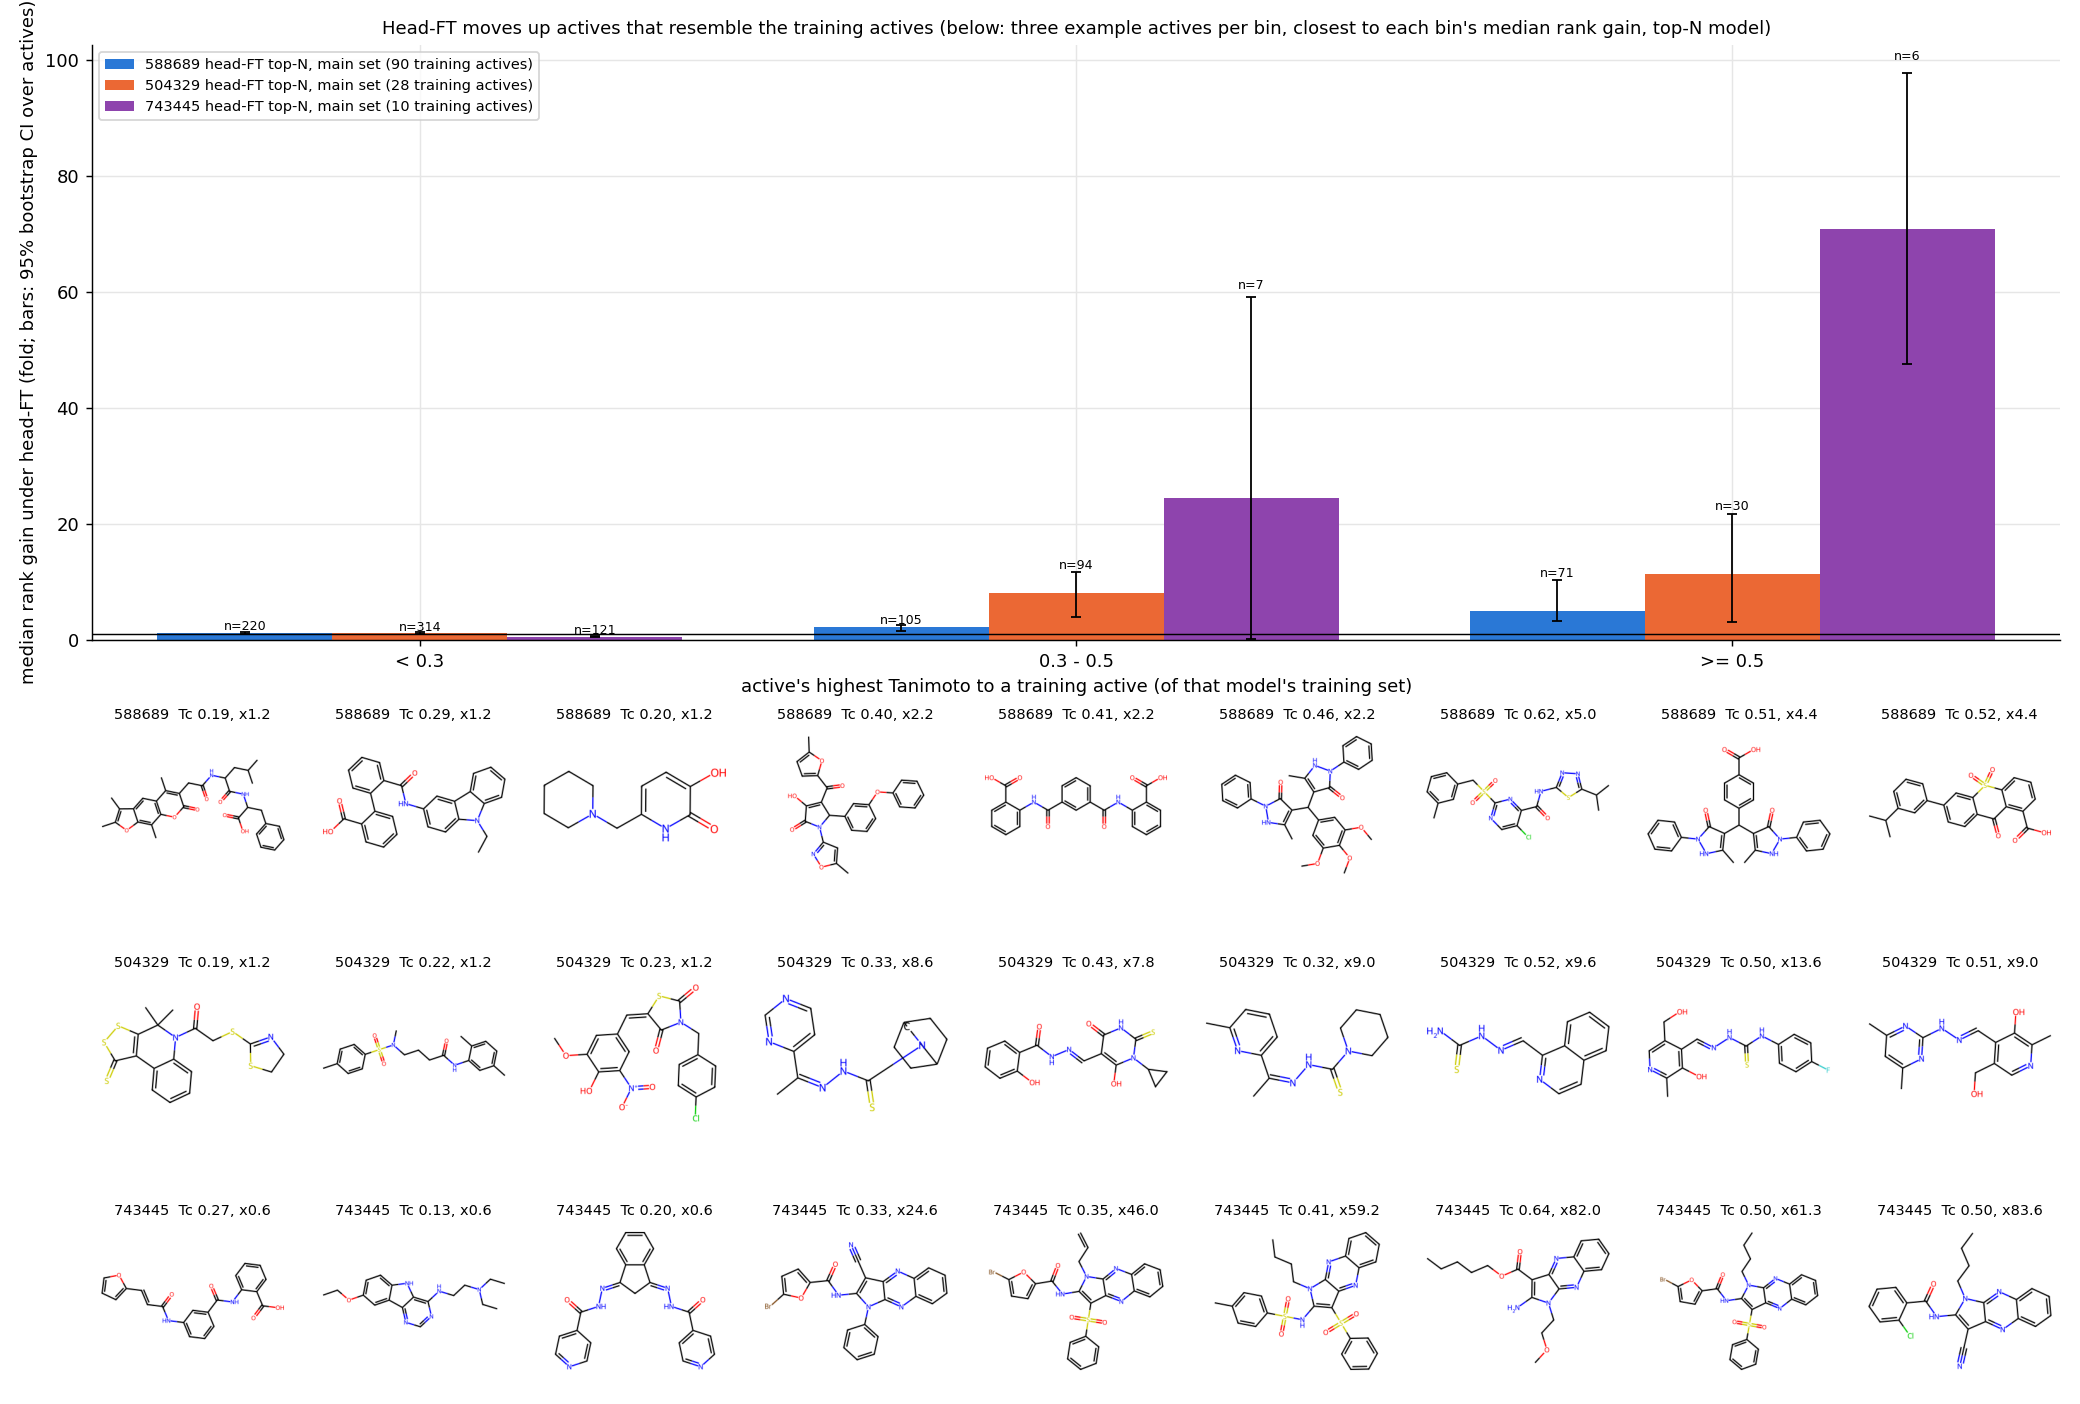
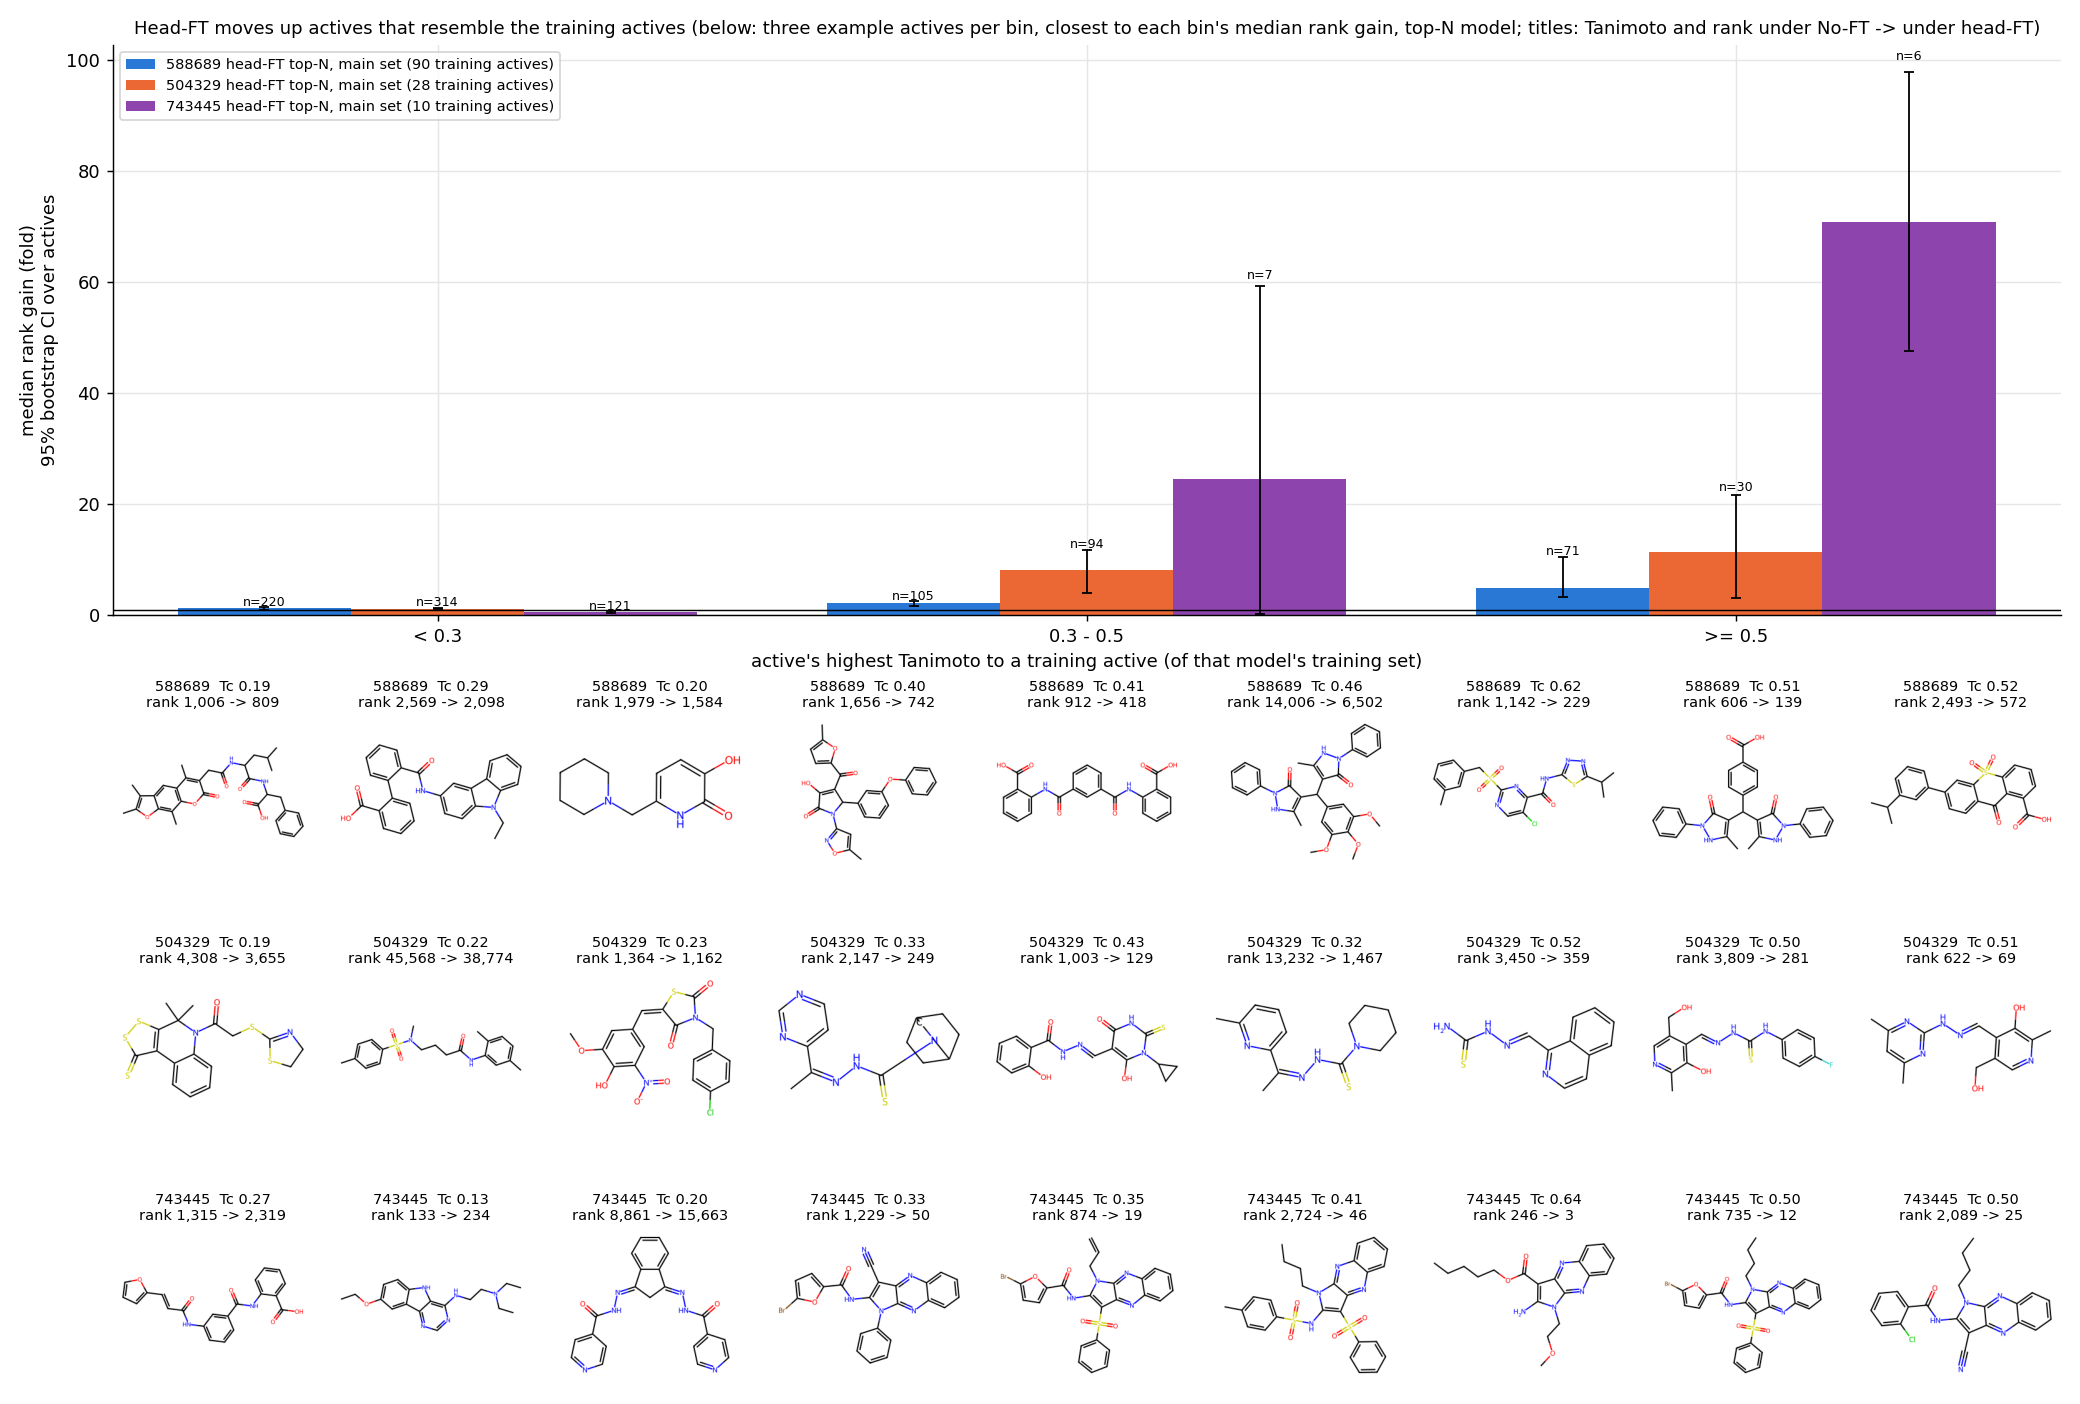
Similarity figure: show No-FT to head-FT rank in the example titles

diff --git a/pipeline_local/make_readme_figures.py b/pipeline_local/make_readme_figures.py
@@ -86,15 +86,15 @@ def train_fps(t, ids):
     tt = br.sim_table(t); tra = [i for i in ids if bool(tt.target_active_v2.get(i, False))]; return [f for f in br.fps(tt["neut-smiles"].reindex(tra).values) if f is not None]
 SER = []; BIN = {}
 for q, t in enumerate(DONE):
-    S = bc.scores(t); ref = train_fps(t, bc.train_ids(t, 300)); d, g = gain_bins(S.smiles.values, S.label.values.astype(int), S.noft_p.values, bc.ft_mean(S, 300).values, ref)
+    S = bc.scores(t); S['rn'] = S.noft_p.rank(ascending=False, method='first'); S['rf'] = bc.ft_mean(S, 300).rank(ascending=False, method='first'); ref = train_fps(t, bc.train_ids(t, 300)); d, g = gain_bins(S.smiles.values, S.label.values.astype(int), S.noft_p.values, bc.ft_mean(S, 300).values, ref)
     SER.append((f"{SH[t]} head-FT top-N, main set ({len(ref)} training actives)", g, [OUR, THEIR, "#8e44ad"][q % 3])); BIN[t] = (S, d, g)
 fig = plt.figure(figsize=(16, 4.8 + 2.0 * len(DONE))); gs = fig.add_gridspec(1 + len(DONE), 9, height_ratios=[3.6] + [1.0] * len(DONE)); ax = fig.add_subplot(gs[0, :]); w = 0.8 / len(SER)
 for q, (lab, g, col) in enumerate(SER):
     xs = np.arange(len(g)) + (q - (len(SER) - 1) / 2) * w; m = 2 ** g["median"].values; lo = 2 ** g["lo"].values; hi = 2 ** g["hi"].values
     ax.bar(xs, m, w, color=col, label=lab); ax.errorbar(xs, m, yerr=[m - lo, hi - m], fmt="none", color=BLK, capsize=3, lw=1)
     for xx, mm, h, n in zip(xs, m, hi, g["size"].values): ax.text(xx, h * 1.02 + 0.2, f"n={n}", ha="center", fontsize=7)
-ax.axhline(1, color=BLK, lw=0.8); ax.set_xlim(-0.5, 2.5); ax.set_ylim(0, None); ax.set_xticks(range(3)); ax.set_xticklabels(labs); ax.set_xlabel("active's highest Tanimoto to a training active (of that model's training set)"); ax.set_ylabel("median rank gain under head-FT (fold; bars: 95% bootstrap CI over actives)"); ax.legend(fontsize=8, loc="upper left")
-ax.set_title("Head-FT moves up actives that resemble the training actives (below: three example actives per bin, closest to each bin's median rank gain, top-N model)", fontsize=10)
+ax.axhline(1, color=BLK, lw=0.8); ax.set_xlim(-0.5, 2.5); ax.set_ylim(0, None); ax.set_xticks(range(3)); ax.set_xticklabels(labs); ax.set_xlabel("active's highest Tanimoto to a training active (of that model's training set)"); ax.set_ylabel("median rank gain (fold)\n95% bootstrap CI over actives"); ax.legend(fontsize=8, loc="upper left")
+ax.set_title("Head-FT moves up actives that resemble the training actives (below: three example actives per bin, closest to each bin's median rank gain, top-N model; titles: Tanimoto and rank under No-FT -> under head-FT)", fontsize=10)
 for r, t in enumerate(DONE):
     S, d, g = BIN[t]; g = g.assign(median=g['median']); A = S[S.label == 1].copy(); A["tc"] = d.tc.values; A["bin"] = d.bin.values; A["rshift"] = d.sh.values
     for b, lab in enumerate(labs):
@@ -104,7 +104,7 @@ for r, t in enumerate(DONE):
         for c, (_, row) in enumerate(pick.iterrows()):
             axm = fig.add_subplot(gs[1 + r, b * 3 + c]); m = Chem.MolFromSmiles(row.smiles)
             if m is not None: axm.imshow(Draw.MolToImage(m, size=(320, 240)))
-            axm.axis("off"); axm.set_title(f"{SH[t]}  Tc {row.tc:.2f}, x{2 ** row.rshift:.1f}", fontsize=8)
+            axm.axis("off"); axm.set_title(f"{SH[t]}  Tc {row.tc:.2f}\nrank {int(row.rn):,} -> {int(row.rf):,}", fontsize=8)
 save(fig, "finding_3_similarity.png")
 
 # 4. near-identical pairs: accuracy by size difference (notebook 04, section 3b) and, on 588689's held-out set, No-FT vs top-N vs balanced
